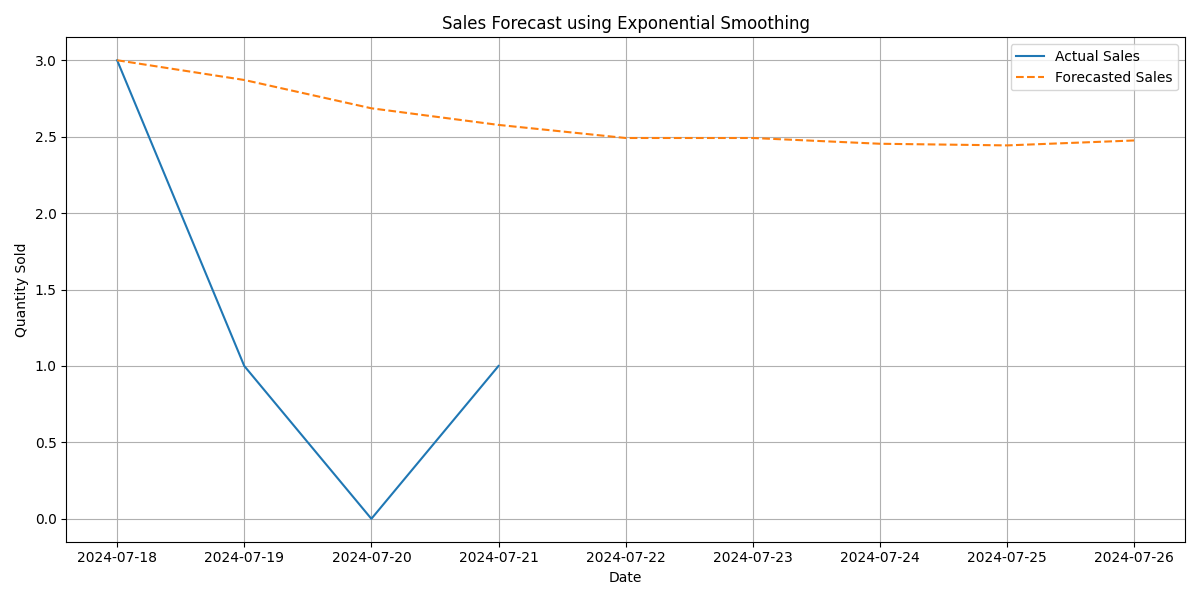
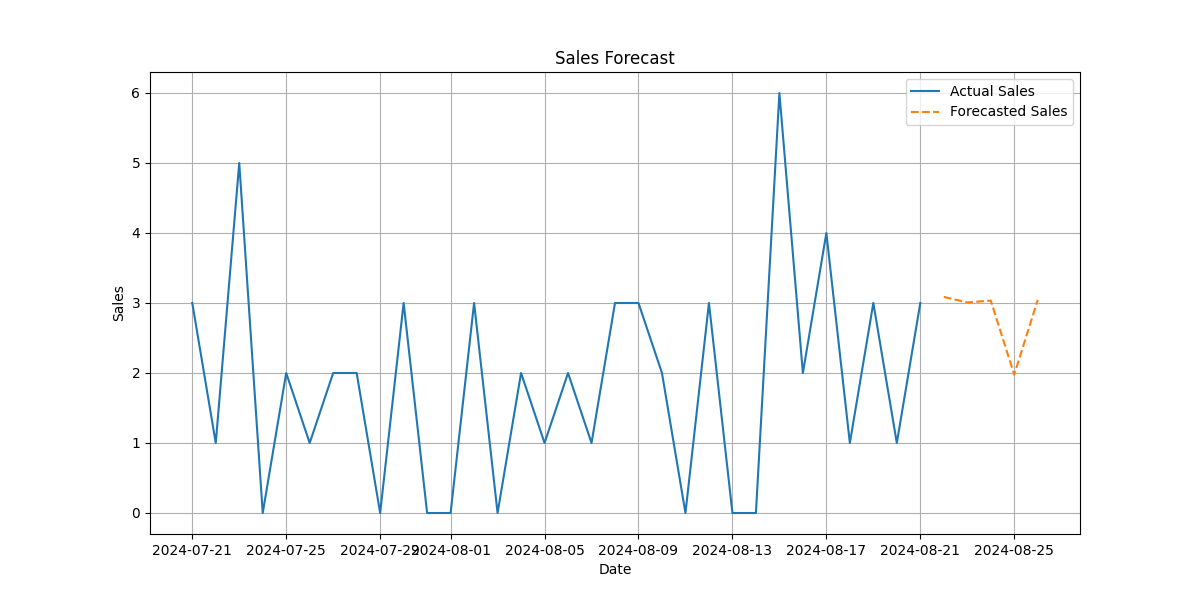
changes

diff --git a/src/application/controllers/cloth_controller.py b/src/application/controllers/cloth_controller.py
@@ -1,13 +1,18 @@
 from marshmallow import ValidationError
 from domain.models.cloth import Cloth
 from infraestructure.repositories.cloth_repository import ClothRepository
-from statsmodels.tsa.holtwinters import ExponentialSmoothing
 from infraestructure.db import SessionLocal
 from domain.models.cloth import Cloth
+import xgboost as xgb
+import numpy as np
+from sklearn.model_selection import train_test_split
+from sklearn.metrics import mean_squared_error
 from application.schemas.cloth_schema import ClothSchema
 from application.schemas.base_response import BaseResponse
 from http import HTTPStatus
+import matplotlib.pyplot as plt
 from datetime import timedelta
+
 import pandas as pd
 
 class ClothController:
@@ -27,42 +32,55 @@ class ClothController:
         
     def get_sales_prediction(self, user_id):
         try:
-            # Obtener datos de la base de datos
             cloth_data = self.repo.get_to_statics(user_id)
-            
-            if not cloth_data:
-                return BaseResponse(None, "Not data found",False, HTTPStatus.BAD_REQUEST)
 
-            # Procesar datos
-            data = [{'date': cloth.sold_at, 'quantity': 1} for cloth in cloth_data]
+            if not cloth_data:
+                return BaseResponse(None, "No sales data found for the specified user.", False, HTTPStatus.BAD_REQUEST)
+
+            data = [{'date': cloth.sold_at, 'quantity': 1} for cloth in cloth_data if cloth.sold_at is not None]
             
             if not data:
                 return BaseResponse(None, "No valid sales dates found for the specified user.", False, HTTPStatus.BAD_REQUEST)
+
             df = pd.DataFrame(data)
 
-            # Asegurarse de que la fecha está en el formato correcto
             df['date'] = pd.to_datetime(df['date'], errors='coerce')
             df = df.dropna(subset=['date'])
             df = df.set_index('date')
-            
+
             if df.empty:
                 return BaseResponse(None, "No valid sales data after filtering dates.", False, HTTPStatus.BAD_REQUEST)
-            
-            # Agrupar por día y contar las ventas
+
             daily_sales = df.resample('D').sum().fillna(0)
 
-            # Aplicar suavizado exponencial
-            daily_sales['forecast'] = daily_sales['quantity'].ewm(span=30, adjust=False).mean()
-            
+            if daily_sales.empty:
+                return BaseResponse(None, "No sales data after resampling.", False, HTTPStatus.BAD_REQUEST)
+
+            daily_sales['day_of_year'] = daily_sales.index.dayofyear
+            daily_sales['day_of_week'] = daily_sales.index.dayofweek
+            daily_sales['week_of_year'] = daily_sales.index.isocalendar().week
+
+            X = daily_sales[['day_of_year', 'day_of_week', 'week_of_year']]
+            y = daily_sales['quantity']
+
+            X_train, X_test, y_train, y_test = train_test_split(X, y, test_size=0.2, random_state=42)
+
+            model = xgb.XGBRegressor(objective='reg:squarederror', n_estimators=100, learning_rate=0.1)
+            model.fit(X_train, y_train)
+
+            y_pred = model.predict(X_test)
+
+            rmse = np.sqrt(mean_squared_error(y_test, y_pred))
+
             last_date = daily_sales.index[-1]
             forecast_dates = [last_date + timedelta(days=i) for i in range(1, 6)]
-            last_forecast = daily_sales['forecast'].iloc[-1]
+            forecast_data = pd.DataFrame({
+                'day_of_year': [date.dayofyear for date in forecast_dates],
+                'day_of_week': [date.dayofweek for date in forecast_dates],
+                'week_of_year': [date.isocalendar().week for date in forecast_dates]
+            })
 
-            forecast_values = [last_forecast] * 5  # Utilizar el último valor pronosticado como punto de partida
-            alpha = 2 / (30 + 1)  # Suavizado exponencial con el mismo span
-
-            for i in range(5):
-                forecast_values[i] = alpha * daily_sales['quantity'][-(5 - i):].mean() + (1 - alpha) * forecast_values[i]
+            forecast_values = model.predict(forecast_data)
 
             forecast_df = pd.DataFrame({
                 'date': forecast_dates,
@@ -70,16 +88,14 @@ class ClothController:
                 'forecast': forecast_values
             }).set_index('date')
 
-            # Combinar datos históricos y predicción
             combined_df = pd.concat([daily_sales, forecast_df])
 
-            # Preparar la respuesta
             response_data = combined_df.reset_index().to_dict(orient='records')
 
-            return BaseResponse(response_data, "Time series data retrieved successfully.", True, HTTPStatus.OK)
+            return BaseResponse(response_data, "Time series data retrieved and forecasted successfully.", True, HTTPStatus.OK)
 
         except Exception as e:
-            return BaseResponse(None, f"Error during prediction: {str(e)}", False, HTTPStatus.CONFLICT)
+            return BaseResponse(None, f"An error occurred: {str(e)}", False, HTTPStatus.BAD_REQUEST)
 
     def update_cloth(self, uuid, data):
         cloth = self.repo.get_by_uuid(uuid)

diff --git a/src/domain/models/period.py b/src/domain/models/period.py
@@ -10,6 +10,8 @@ class Period(Base):
     uuid = Column(String(36), default=lambda: str(uuid4()), unique=True, index=True)
     start = Column(Date)
     end = Column(Date)
+    name = Column(String(255))
+    location = Column(String(255))
     status_id = Column(Integer, ForeignKey('status.id'))
     user_id = Column(Integer)
     

diff --git a/src/application/schemas/period_schema.py b/src/application/schemas/period_schema.py
@@ -8,4 +8,6 @@ class PeriodSchema(Schema):
     end = fields.Date(required=True)
     user_id = fields.Int(required=True)
     status_id = fields.Int(required=True)
+    name = fields.Str(required=True)
+    location = fields.Str(required=True)
     clothes = fields.List(fields.Int())
